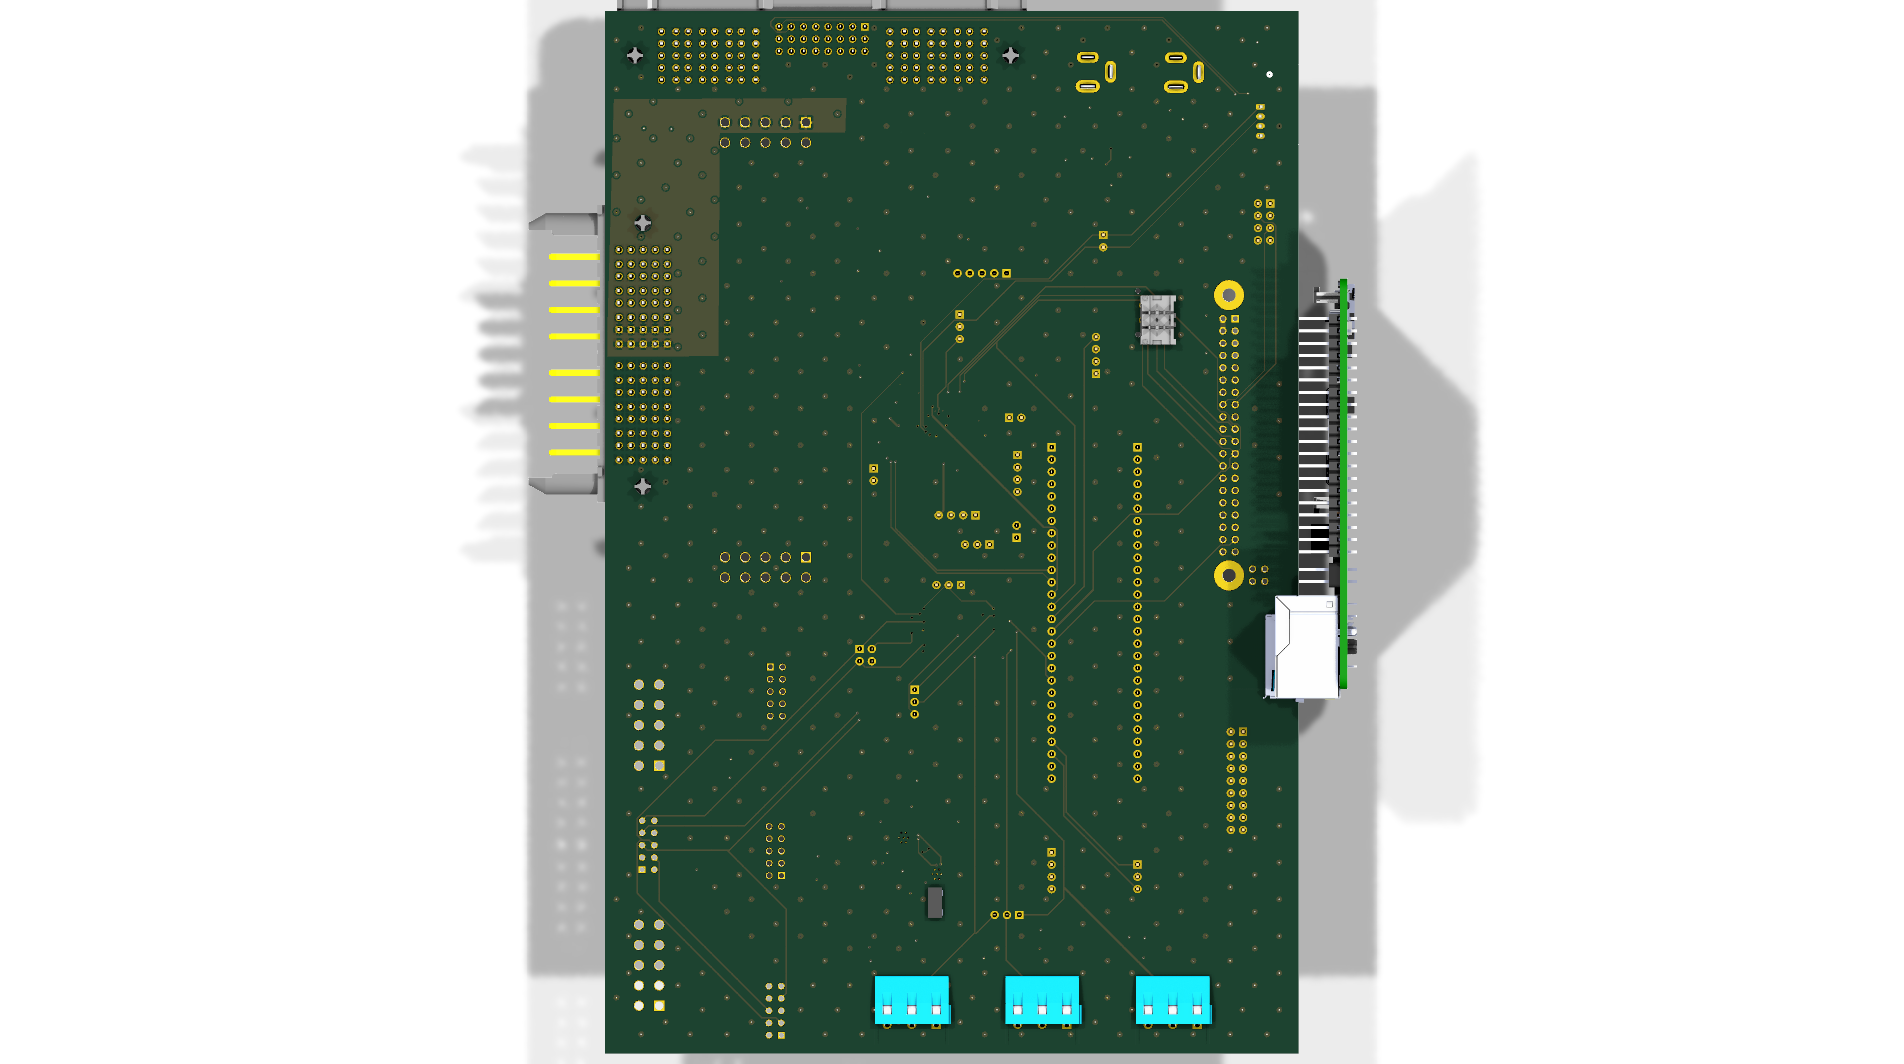
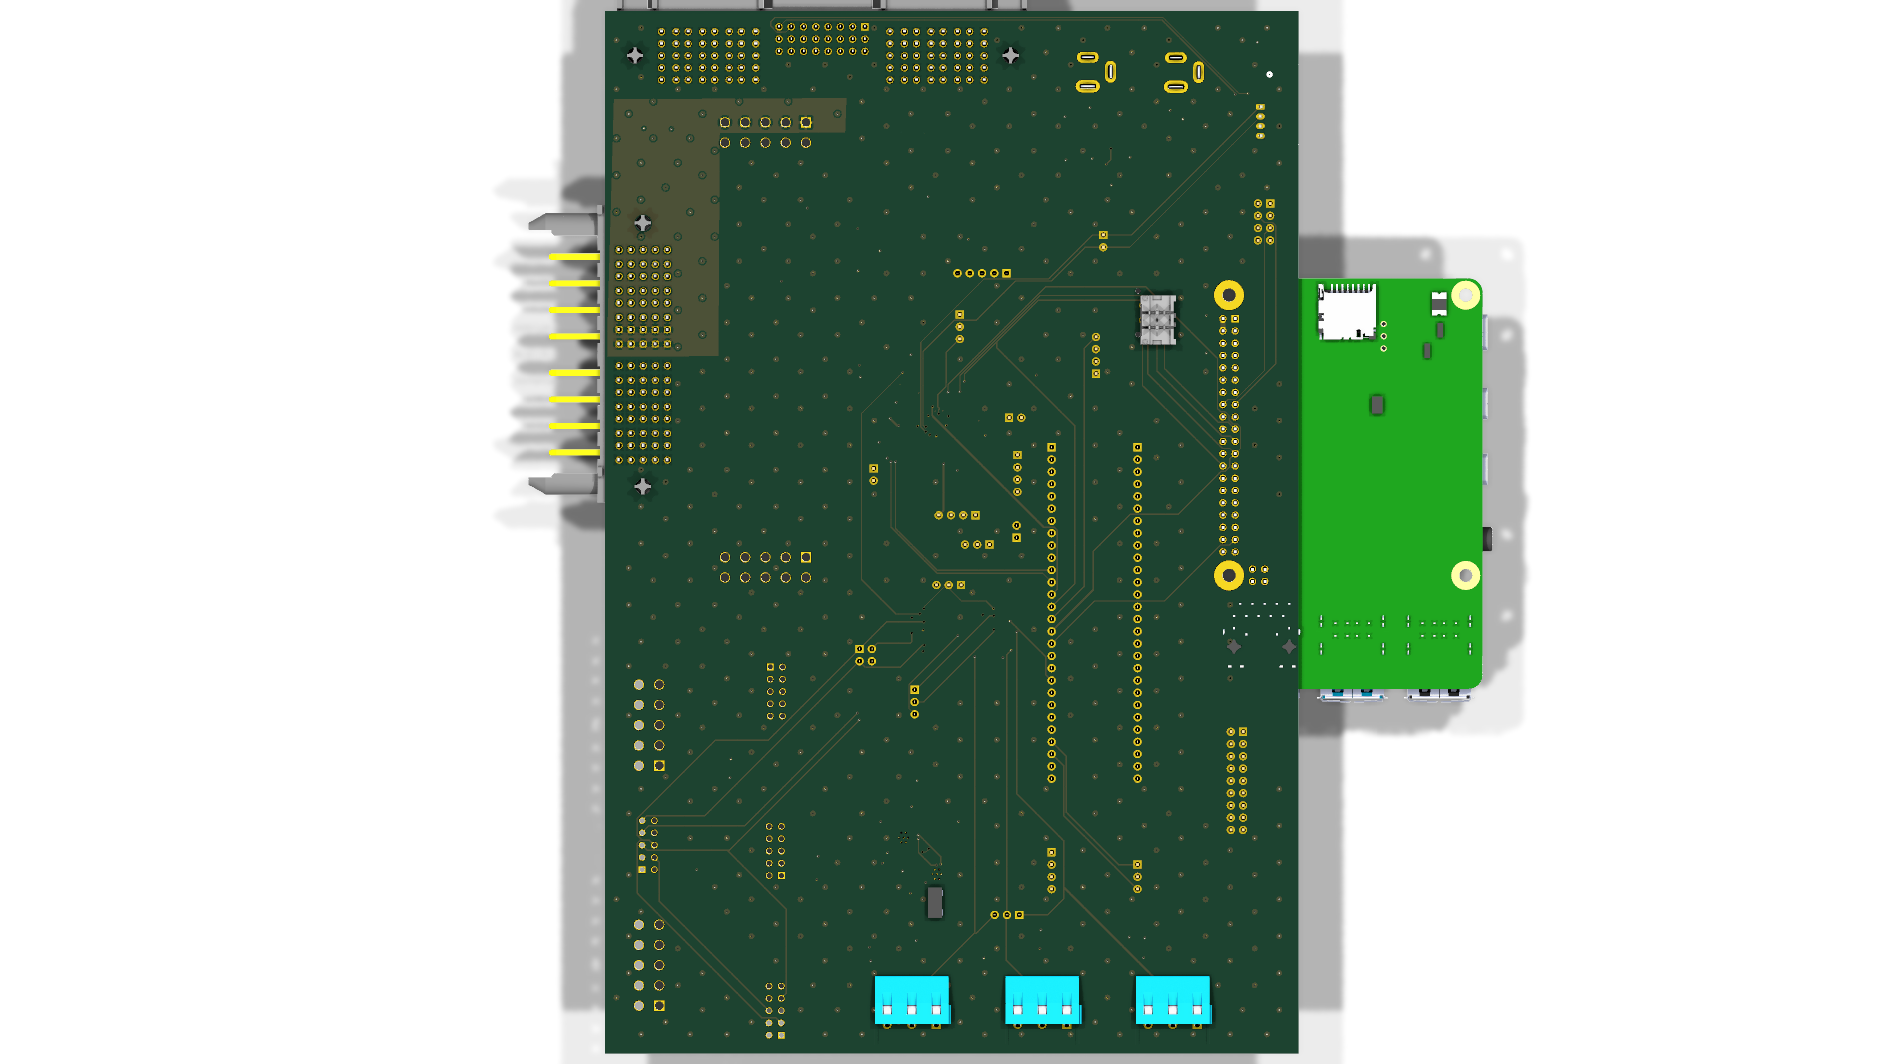
hil: pi lies flat; isometric back as default cover

diff --git a/rov-hil-testbench.md b/rov-hil-testbench.md
@@ -5,7 +5,7 @@ permalink: /projects/rov-hil-testbench
 role: "Embedded Firmware & Electrical"
 description: "Hardware-in-the-Loop (HIL) carrier board and testbench for MATE ROV, enabling firmware development and real-time comparison of STM32/RP2350."
 technologies: ["STM32", "RP2350B", "Raspberry Pi 5", "SPI/I2C/UART", "FreeRTOS", "KiCad"]
-image: "/assets/images/rov_hil_render_top.png"
+image: "/assets/images/rov_hil_render_iso.png"
 printable: true
 order: 1
 ---
